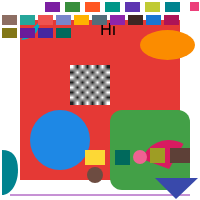
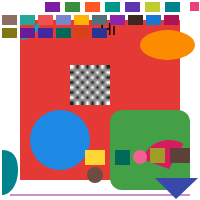
Add VALUE_STRING_CHANGE_ACTION and VALUE_FLOAT_CHANGE_ACTION support
Two more Action subtypes usable anywhere HostAction is:
- ValueStringChange(valueId, string) — opcode 213 — first registers
  the string via a normal DATA_TEXT op (the same text pool
  DrawTextAnchored already uses), then writes
  [valueId:i32][stringId:i32] referencing it. No new string-decoding
  logic needed since DATA_TEXT was already handled.
- ValueFloatChange(valueId, value) — opcode 222 — writes
  [valueId:i32][value:f32]. Confirmed via ValueFloatChange(4, 2.5f)
  decoding to exactly [4, 2.5], and ValueStringChange(5, "hi")
  decoding to a DATA_TEXT registration followed by [5, <that id>].

Added burnt-orange and dark-blue boxes to the rc-writer sample and
regenerated SamplePayload.kt (byte-verified against
tools/rc-writer/sample.rc). Desktop render confirmed correct. 50 real
opcodes now supported.

Claude-Session: https://claude.ai/code/session_01GQQ3LnfhXR1mA4HeBBDnYg

Changed region(s): [[0.36, 0.12, 0.54, 0.21]]

diff --git a/src/commonMain/kotlin/com/example/remotecompose/parser/RealRemoteComposeParser.kt b/src/commonMain/kotlin/com/example/remotecompose/parser/RealRemoteComposeParser.kt
@@ -378,6 +378,22 @@ object RealRemoteComposeParser {
     private const val OP_VALUE_INTEGER_CHANGE = 212
 
     /**
+     * `Operations.VALUE_STRING_CHANGE_ACTION` — `ValueStringChange(valueId, string)` first
+     * registers the string via a normal [OP_DATA_TEXT] op (the same text pool `DrawTextAnchored`
+     * uses), then writes `[valueId:i32][stringId:i32]` referencing it. Confirmed via
+     * `ValueStringChange(5, "hi")` decoding to a `DATA_TEXT` registration followed by `[5, <that
+     * id>]`.
+     */
+    private const val OP_VALUE_STRING_CHANGE = 213
+
+    /**
+     * `Operations.VALUE_FLOAT_CHANGE_ACTION` — `ValueFloatChange(valueId, value)` writes
+     * `[valueId:i32][value:f32]`, confirmed via `ValueFloatChange(4, 2.5f)` decoding to exactly
+     * `[4, 2.5]`.
+     */
+    private const val OP_VALUE_FLOAT_CHANGE = 222
+
+    /**
      * `drawTextAnchored` carries no font-size parameter — real font sizing comes from a text style
      * this minimal parser doesn't yet decode — so text is drawn at a fixed, reasonable default.
      */
@@ -657,6 +673,16 @@ object RealRemoteComposeParser {
                     reader.readS32() // value
                 }
 
+                OP_VALUE_STRING_CHANGE -> {
+                    reader.readS32() // valueId
+                    reader.readS32() // stringId (text-pool reference)
+                }
+
+                OP_VALUE_FLOAT_CHANGE -> {
+                    reader.readS32() // valueId
+                    reader.readFloat32() // value
+                }
+
                 else -> throw RemoteComposeParseException(
                     "Real opcode $opId is outside the minimal subset this demo parser supports " +
                         "(Header/DataText/RootContentDescription/PaintBundle/DrawRect/DrawCircle/" +
@@ -669,7 +695,8 @@ object RealRemoteComposeParser {
[2 lines of base64/hex data omitted]
                         "ModifierDrawContent/ModifierMarquee/ModifierGraphicsLayer/" +
-                        "ModifierDimensionConstraints/ValueIntegerChange)",
[1 lines of base64/hex data omitted]
+                        "ValueFloatChange)",
                 )
             }
         }

diff --git a/src/commonMain/kotlin/com/example/remotecompose/demo/SamplePayload.kt b/src/commonMain/kotlin/com/example/remotecompose/demo/SamplePayload.kt
@@ -30,10 +30,12 @@ import kotlin.io.encoding.ExperimentalEncodingApi
  * olive rect carrying a `then(MarqueeModifier(...))` modifier, and a purple rect carrying a
  * `then(GraphicsLayerModifier().apply { setFloatAttribute(ALPHA, 0.5f) })` modifier, and a
  * dark-indigo rect carrying a `then(WidthInModifier(type, min, max))` modifier, and a teal rect
- * carrying an `onClick(ValueIntegerChange(3, 7))` modifier), not by anything in this codebase.
- * Shared by every platform demo entry point (iOS, Android) so they render byte-identical input —
- * the point of the cross-platform comparison is to catch *rendering* differences, not to
- * accidentally compare two different payloads.
+ * carrying an `onClick(ValueIntegerChange(3, 7))` modifier, a burnt-orange rect carrying an
+ * `onClick(ValueFloatChange(4, 2.5f))` modifier, and a dark-blue rect carrying an
+ * `onClick(ValueStringChange(5, hi))` modifier), not by anything in this codebase. Shared by
+ * every platform demo entry point (iOS, Android) so they render byte-identical input — the point
+ * of the cross-platform comparison is to catch *rendering* differences, not to accidentally
+ * compare two different payloads.
  */
 @OptIn(ExperimentalEncodingApi::class)
 val SAMPLE_RC_BYTES: ByteArray by lazy {
@@ -68,6 +70,8 @@ val SAMPLE_RC_BYTES: ByteArray by lazy {
[7 lines of base64/hex data omitted]
     )
 }

diff --git a/tools/rc-writer/src/main/kotlin/Main.kt b/tools/rc-writer/src/main/kotlin/Main.kt
@@ -2,7 +2,9 @@ import androidx.compose.remote.creation.JvmRcPlatformServices
 import androidx.compose.remote.creation.RemoteComposeWriter
 import androidx.compose.remote.creation.RemotePath
 import androidx.compose.remote.creation.actions.HostAction
+import androidx.compose.remote.creation.actions.ValueFloatChange
 import androidx.compose.remote.creation.actions.ValueIntegerChange
+import androidx.compose.remote.creation.actions.ValueStringChange
 import androidx.compose.remote.creation.modifiers.RecordingModifier
 import androidx.compose.remote.creation.modifiers.GraphicsLayerModifier
 import androidx.compose.remote.creation.modifiers.MarqueeModifier
@@ -277,6 +279,20 @@ fun main() {
         .setColor(0xFF00695C.toInt())
         .commit()
     writer.drawRect(56f, 28f, 71f, 38f)
+    writer.endBox()
+
+    writer.startBox(RecordingModifier().onClick(ValueFloatChange(4, 2.5f)), 0, 0)
+    writer.getRcPaint()
+        .setColor(0xFFD84315.toInt())
+        .commit()
+    writer.drawRect(74f, 28f, 89f, 38f)
+    writer.endBox()
+
+    writer.startBox(RecordingModifier().onClick(ValueStringChange(5, "hi")), 0, 0)
+    writer.getRcPaint()
+        .setColor(0xFF283593.toInt())
+        .commit()
+    writer.drawRect(92f, 28f, 107f, 38f)
     writer.endBox()
 
     val bytes = writer.encodeToByteArray()
